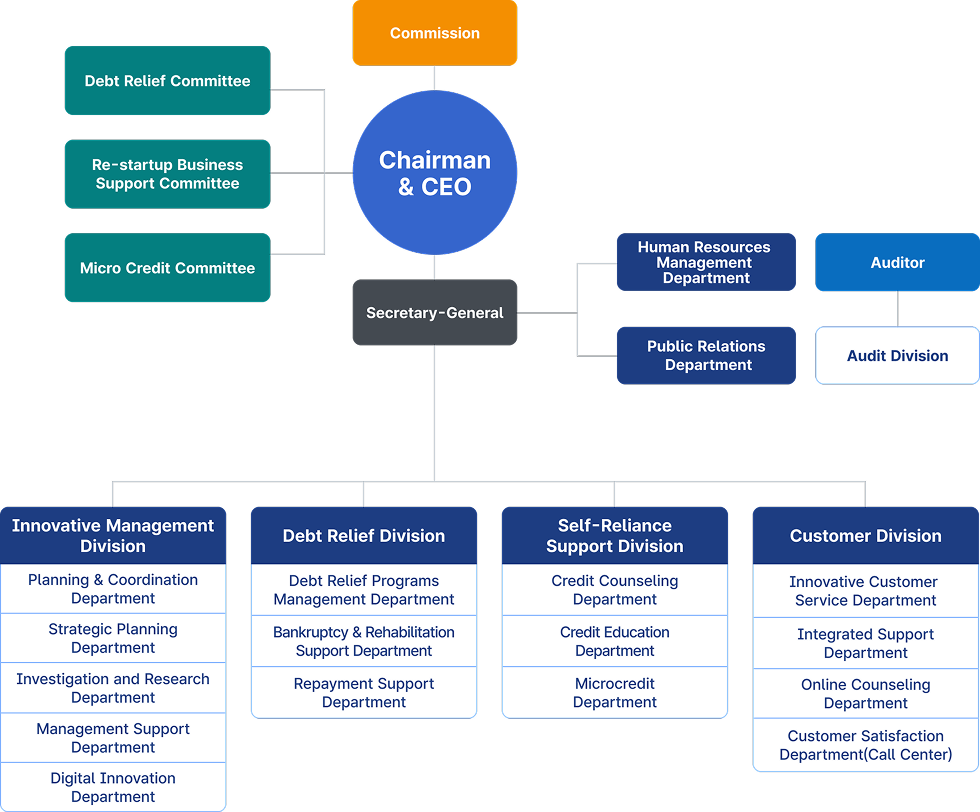
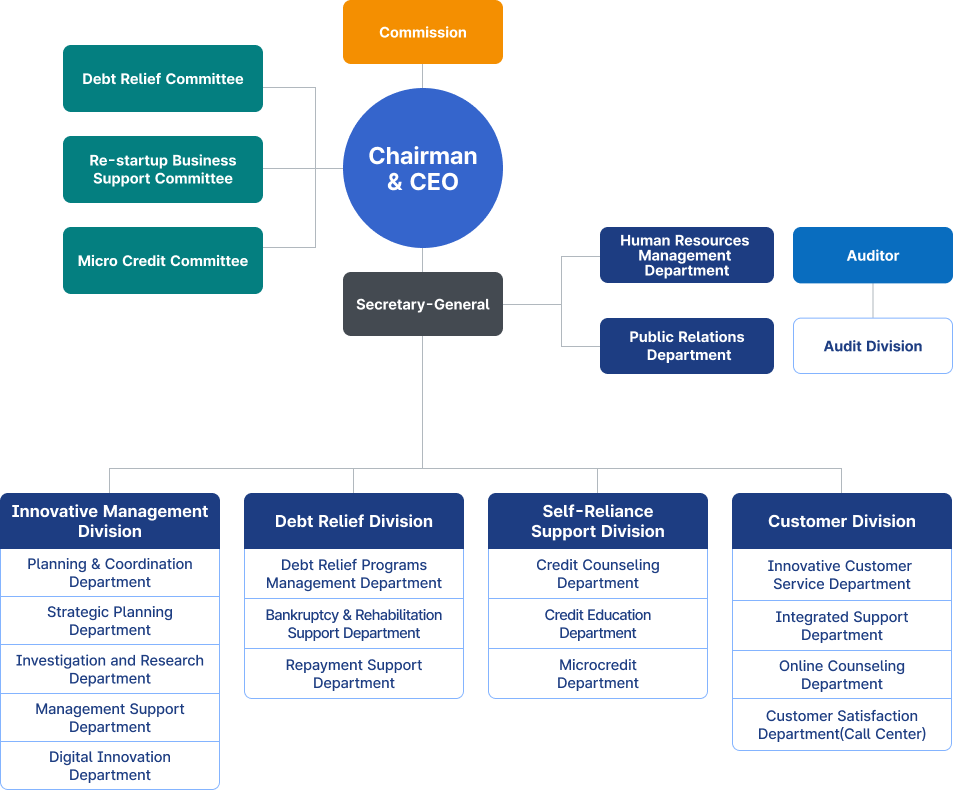
수정사항 반영

diff --git a/html_en/organization.html b/html_en/organization.html
@@ -10,7 +10,7 @@
     <meta name="viewport" content="width=device-width, initial-scale=1" />
     <meta name="breadcrumb" content="About CCRS > Organization">
     <title>Organization</title>
-    
+
     <link rel="stylesheet" href="/type/www/css/bundle_en.css?ver=20251118">
 </head>
 
@@ -87,7 +87,7 @@
                             <div class="title-wrap">
                                 <h1>Organization</h1>
                                 <div class="page-actions">
-                                    
+
 
                                     <button class="action-btn" aria-label="인쇄">
                                         <i class="fas fa-print"></i>
@@ -104,11 +104,14 @@
                             <h4 class="sec-tit">
                                 Organization chart
                             </h4>
-                            <div class="g-conts-area">
+                            <div class="g-conts-area" style="position:relative;">
                                 <img src="/type/www/images/en/Organization_chart.png?ver=4.7" alt="">
+                                <div class="grouptree-bg-line en"></div>
                             </div>
                             <!-- 지역본부 -->
-                                <div class="region-branches">
+                            <div class="g-conts-area">
+                                <h3 class="bullet region-branch-title"><strong>Customer Division</strong></h3>
+                                <div class="region-branches en">
                                     <div class="region-branch-wrapper">
                                         <div class="region-branch-item">
                                             Seoul-<br>Gangwon<br>Regional<br>Head Office
@@ -126,7 +129,7 @@
                                             <p>Chuncheon<br>Branch Office</p>
                                         </div>
                                     </div>
-                                    
+
                                     <div class="region-branch-wrapper">
                                         <div class="region-branch-item">
                                             Incheon-Gyeonggi Bukbu<br>Regional Head Office
@@ -141,7 +144,7 @@
                                             <p>Gimpo<br>Branch Office</p>
                                         </div>
                                     </div>
-                                    
+
                                     <div class="region-branch-wrapper">
                                         <div class="region-branch-item">
                                             Gyeonggi Nambu<br>Regional Head Office
@@ -155,7 +158,7 @@
                                             <p>Pyeongtaek<br> Branch Office</p>
                                         </div>
                                     </div>
-                                    
+
                                     <div class="region-branch-wrapper">
                                         <div class="region-branch-item">
                                             Daejeon-Chungcheong<br>Regional Head Office
@@ -169,7 +172,7 @@
                                             <p>Asan<br>Branch Office</p>
                                         </div>
                                     </div>
-                                    
+
                                     <div class="region-branch-wrapper">
                                         <div class="region-branch-item">
                                             Gwangju·<br>Jeolla·Jeju<br>Regional Head Office
@@ -185,7 +188,7 @@
                                             <p>Iksan<br>Branch Office</p>
                                         </div>
                                     </div>
-                                    
+
                                     <div class="region-branch-wrapper">
                                         <div class="region-branch-item">
                                             Daegu-Gyeongbuk<br>Regional Head Office
@@ -199,7 +202,7 @@
                                             <p>Andong<br>Branch Office</p>
                                         </div>
                                     </div>
-                                    
+
                                     <div class="region-branch-wrapper">
                                         <div class="region-branch-item">
                                             Busan-Gyeongnam<br>Regional Head Office
@@ -215,6 +218,7 @@
                                         </div>
                                     </div>
                                 </div>
+                            </div>
                         </div>
 
                         <h4 class="sec-tit mt60">
@@ -223,8 +227,16 @@
                         <div class="g-conts-area flex mt20">
                             <div class="g-conts-area flex">
                                 <div class="conts-desc">
-                                    The commission, composed of 15 members including the chairman, is the highest decision-making body of our organization.
-Its members are appointed by the Financial Services Commission among the following individuals : the Chairman of the Korea Federation of Banks, the Chairman of the Korea Life Insurance Association, the Chairman of the General Insurance Association of Korea, the Chairman of the Credit Finance Association of Korea, the President of the Korea Federation of Savings Banks, the CEO of Mutual Finance at the National Agricultural Cooperative Federation, the Vice-President of the Korea Inclusive Finance Agency, and other individuals who have rich knowledge and experience in the area of consumer protection and Household debt relief programs.
+                                    The commission, composed of 15 members including the chairman, is the highest
+                                    decision-making body of our organization.
+                                    Its members are appointed by the Financial Services Commission among the following
+                                    individuals : the Chairman of the Korea Federation of Banks, the Chairman of the
+                                    Korea Life Insurance Association, the Chairman of the General Insurance Association
+                                    of Korea, the Chairman of the Credit Finance Association of Korea, the President of
+                                    the Korea Federation of Savings Banks, the CEO of Mutual Finance at the National
+                                    Agricultural Cooperative Federation, the Vice-President of the Korea Inclusive
+                                    Finance Agency, and other individuals who have rich knowledge and experience in the
+                                    area of consumer protection and Household debt relief programs.
                                 </div>
                             </div>
                         </div>
@@ -234,10 +246,10 @@ Its members are appointed by the Financial Services Commission among the followi
             </div>
         </main>
 
-        
-        
-        
-        
+
+
+
+
         <!-- Footer:s -->
         <div id="footer-container"></div>
         <!-- Footer:e -->
@@ -248,7 +260,7 @@ Its members are appointed by the Financial Services Commission among the followi
     <!-- 검색영역 -->
     <div id="search-container"></div>
     <!-- //검색영역 -->
-     
+
     <script src="/type/www/js/jquery-2.2.4.min.js?ver=4.7"></script>
     <script src="/type/www/js/plugins/aos.js?ver=4.7"></script>
     <script src="/type/www/js/component/ui-script.js?ver=4.7"></script>
@@ -259,4 +271,5 @@ Its members are appointed by the Financial Services Commission among the followi
     공통 header 분리하기 위해 init.js 임시 추가  -->
     <script src="includes/init.js?ver=4.7"></script>
 </body>
+
 </html>

diff --git a/type/www/css/styles.css b/type/www/css/styles.css
@@ -8476,8 +8476,19 @@ a.customer-service-card {
     pointer-events: none;
 }
 
+.grouptree-bg-line.en {
+    background: url(../images/en/GroupTree_bgline.png) left top no-repeat;
+    background-size: contain;
+    top: 516px;
+    left: 68px;
+}
+
 .region-branch-title {
     display: none;
+}
+
+.region-branches.en {
+    margin-top: -40px;
 }
 
 @media (max-width: 1400px) {
@@ -8489,5 +8500,8 @@ a.customer-service-card {
     }
     .region-branches {
         margin-top: 20px;
+    }
+    .region-branches.en {
+    margin-top: 20px;
     }
 }
